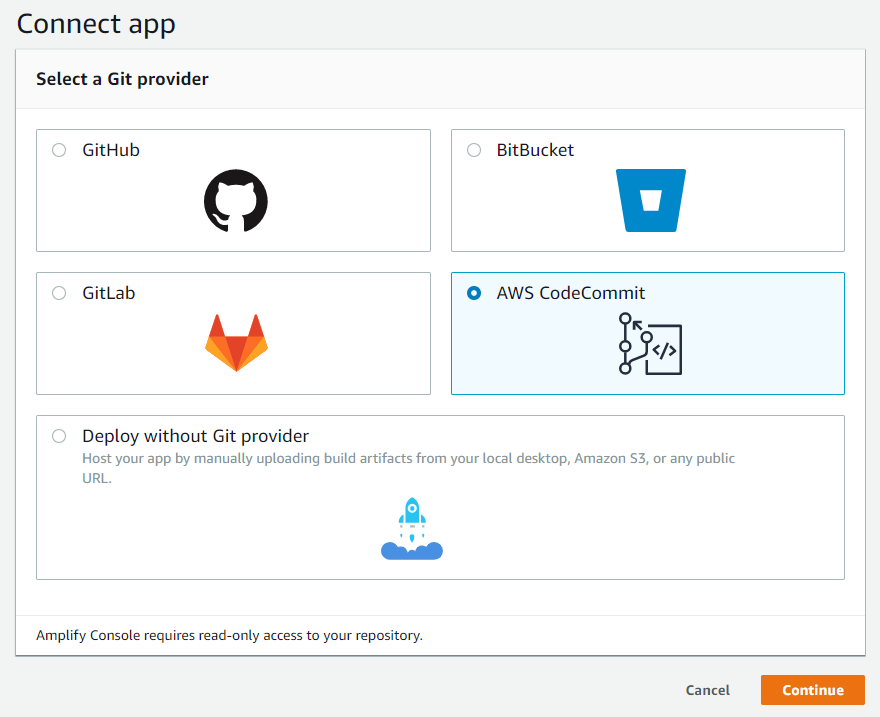
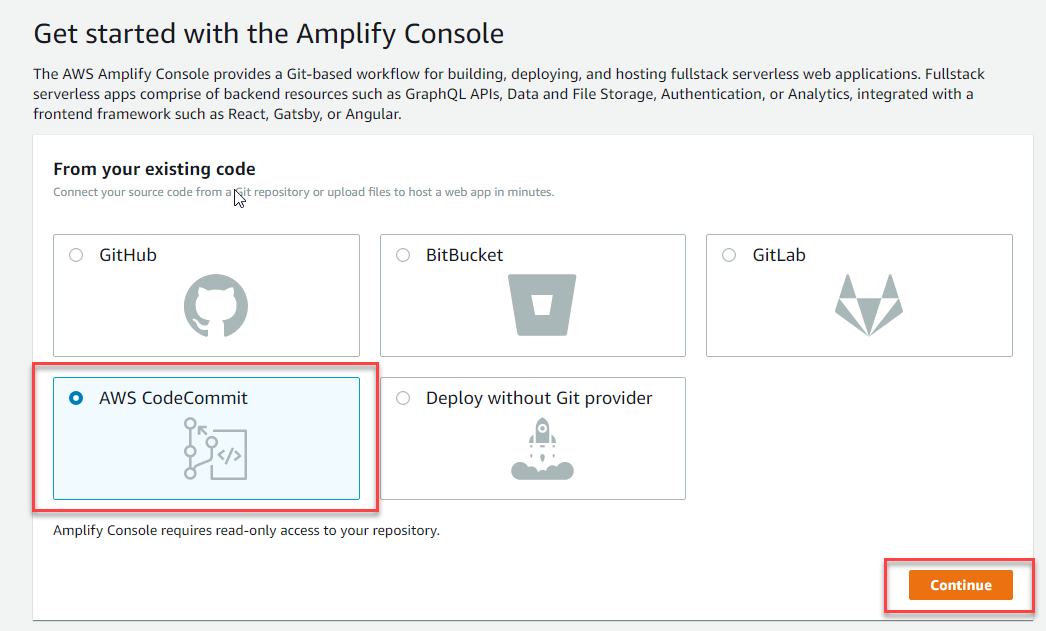
Minor edits

Changed region(s): [[0.0, 0.3613, 1.0, 0.9937], [0.0, 0.0, 0.9511, 0.3312], [0.675, 0.2108, 0.7977, 0.3312]]

diff --git a/1-app-deploy/README.md b/1-app-deploy/README.md
@@ -104,7 +104,7 @@ Next you'll use the AWS Amplify Console to deploy the frontend website you've ju
 1. Launch the [Amplify Console](https://console.aws.amazon.com/amplify/home).
 2. Scroll down to the *Deploy* section and select **Get Started**.
 ![Module 1 amplify splash](../images/module1-amplify-splash.png)
-3. Under *Connect App*, select **AWS CodeCommit** and select **Continue**.
+3. Under *Get started with the Amplify Console*, select **AWS CodeCommit** and select **Continue**.
 
 ![Module 1 connect app](../images/module1-connect-app.png)
 
@@ -192,7 +192,7 @@ This has now created the S3 deployment bucket.
 
 4. Change directory:
 ```
-cd ~/environment/theme-park-backend/1-app-deploy/sam-app/
+cd ~/environment/aws-serverless-workshop-innovator-island/1-app-deploy/sam-app/
 ```
 5. Use SAM CLI to deploy the infrastructure by running the following commands:
 ```
@@ -204,28 +204,29 @@ sam deploy --template-file packaged.yaml --stack-name theme-park-backend --capab
 ```
 This will take a few minutes to deploy - wait for the confirmation message in the console before continuing.
 
-SAM has now used CloudFormation to deploy a stack of backend resources which will be used for the rest of the workshop, 2 x Lambda functions and a Lambda Layer, 3 x S3 buckets, a DynamoDBTable, Cognito UserPool, AWS IoT thing and a number of IAM Roles and Policies.
+SAM has now used CloudFormation to deploy a stack of backend resources which will be used for the rest of the workshop:
+- 2 Lambda functions and a Lambda Layer
+- 3 S3 buckets
+- A DynamoDBTable
+- A Cognito UserPool
+- An AWS IoT thing
+- Several IAM Roles and Policies.
 
 6. Configure environment variables. Set a number of environment variables to represent the custom names of resources deployed in your account. These commands use the AWS CLI to retrieve the CloudFormation resource names and then construct the environment variables using Linux string manipulation commands ``grep`` and ``cut``. This makes it easier to type deployment commands in later modules. In the terminal, execute:
 
 ```console
 AWS_REGION=$(curl -s http://169.254.169.254/latest/meta-data/placement/availability-zone | sed 's/\(.*\)[a-z]/\1/')
-echo $AWS_REGION
-
 FINAL_BUCKET=$(aws s3 ls | grep finalbucket | cut -d' ' -f 3)
-echo $FINAL_BUCKET
-
 PROCESSING_BUCKET=$(aws s3 ls | grep processingbucket | cut -d' ' -f 3)
-echo $PROCESSING_BUCKET
-
 UPLOAD_BUCKET=$(aws s3 ls | grep uploadbucket | cut -d' ' -f 3)  
+DDB_TABLE=$(aws dynamodb list-tables | grep theme-park-backend | awk '{$1=$1};1' | sed 's/"//g')
+echo $FINAL_BUCKET
+echo $PROCESSING_BUCKET
 echo $UPLOAD_BUCKET
-
-DDB_TABLE=$(aws cloudformation describe-stack-resources --stack-name theme-park-backend  --logical-resource-id DynamoDBTable | grep PhysicalResourceId | cut -d '"' -f 4)
 echo $DDB_TABLE
 ```
 
-
+SAM has now used CloudFormation to deploy a stack of backend resources which will be used for the rest of the workshop, 2 x Lambda functions and a Lambda Layer, 3 x S3 buckets, a DynamoDBTable, Cognito UserPool, AWS IoT thing and a number of IAM Roles and Policies.
 
 ## Populate the DynamoDB Table
 
@@ -237,12 +238,14 @@ The SAM template created a DynamoDB table for the application. Next, you will fi
 
 1. From the Cloud9 console, navigate to the local-app directory in **1-app-deploy**:
 ```
-cd ~/environment/theme-park-backend/1-app-deploy/local-app/
+cd ~/environment/aws-serverless-workshop-innovator-island/1-app-deploy/local-app/
 ```
 2. Install the NPM packages needed:
 ```
 npm install
 ```
+*Ignore any NPM warnings or errors - do not run npm audit*
+
 3. Run the import script:
 ```
 node ./importData.js $AWS_REGION $DDB_TABLE
